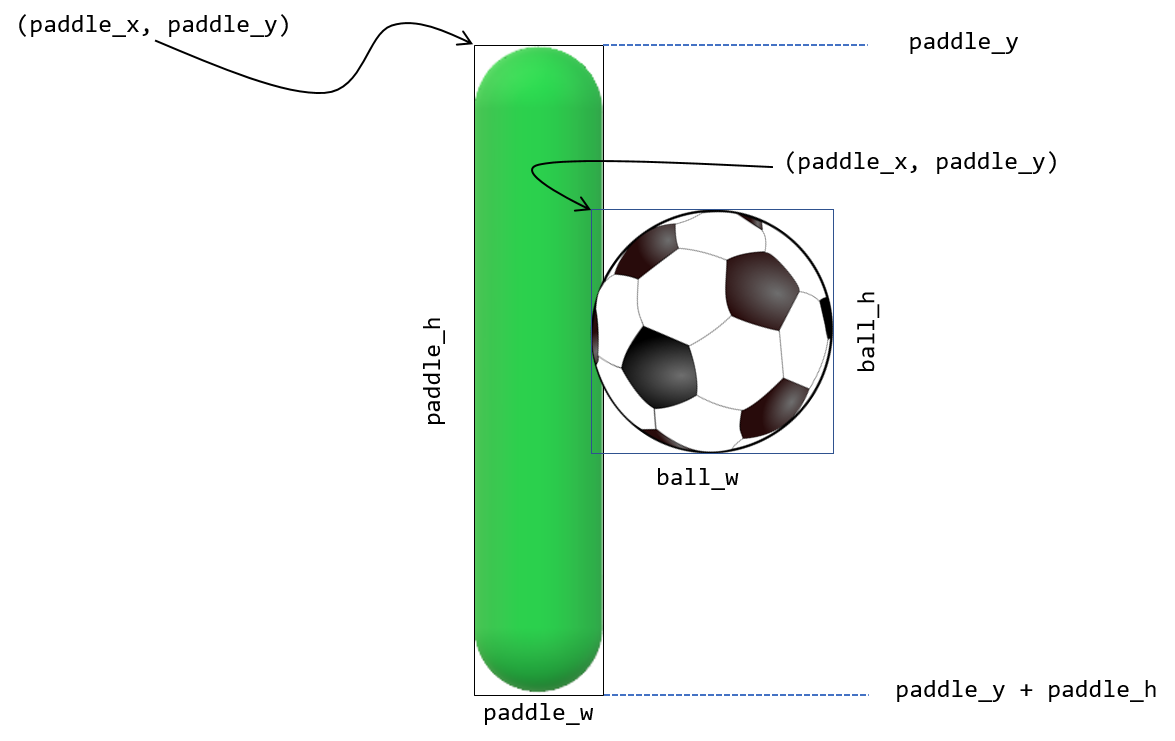
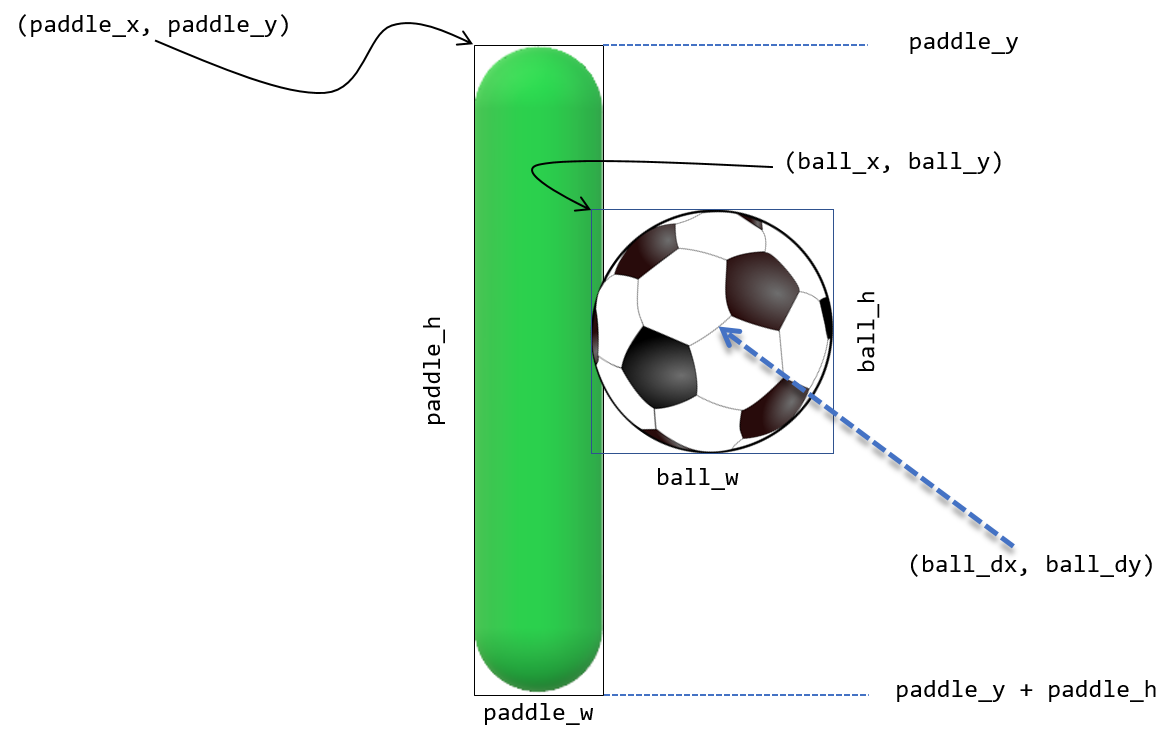
more pong updates

diff --git a/python/particle_with_frame_rate_pong.py b/python/particle_with_frame_rate_pong.py
@@ -19,7 +19,7 @@ paddle_w = paddle.get_width()
 paddle_h = paddle.get_height()
 paddle_x = 10
 paddle_y = height // 2 - paddle_h // 2
-paddle_dy = 1
+paddle_dy = 8
 
 def move(x, y, dx, dy):
 
@@ -28,19 +28,21 @@ def move(x, y, dx, dy):
     x += dt * ball_dx
     y += dt * ball_dy
 
-    #if x < 0:
-    #    x = 0
-    #    dx = -dx
-    if x + ball_w >= width:
+    if x + ball_w >= width:     # right wall
         x = width - ball_w
         dx = -dx
 
-    if y < 0:
+    if y < 0:                   #top wall
         y = 0
         dy = -dy
-    elif y + ball_h >= height:
+    elif y + ball_h >= height:  # bottom wall
         y = height - ball_h
         dy = -dy
+
+    # check if particle hits paddle.
+    if x <= paddle_x + paddle_w and \
+       paddle_y <= y <= paddle_y + paddle_h:
+        dx = -dx
 
     return (x,y,dx,dy)
 
